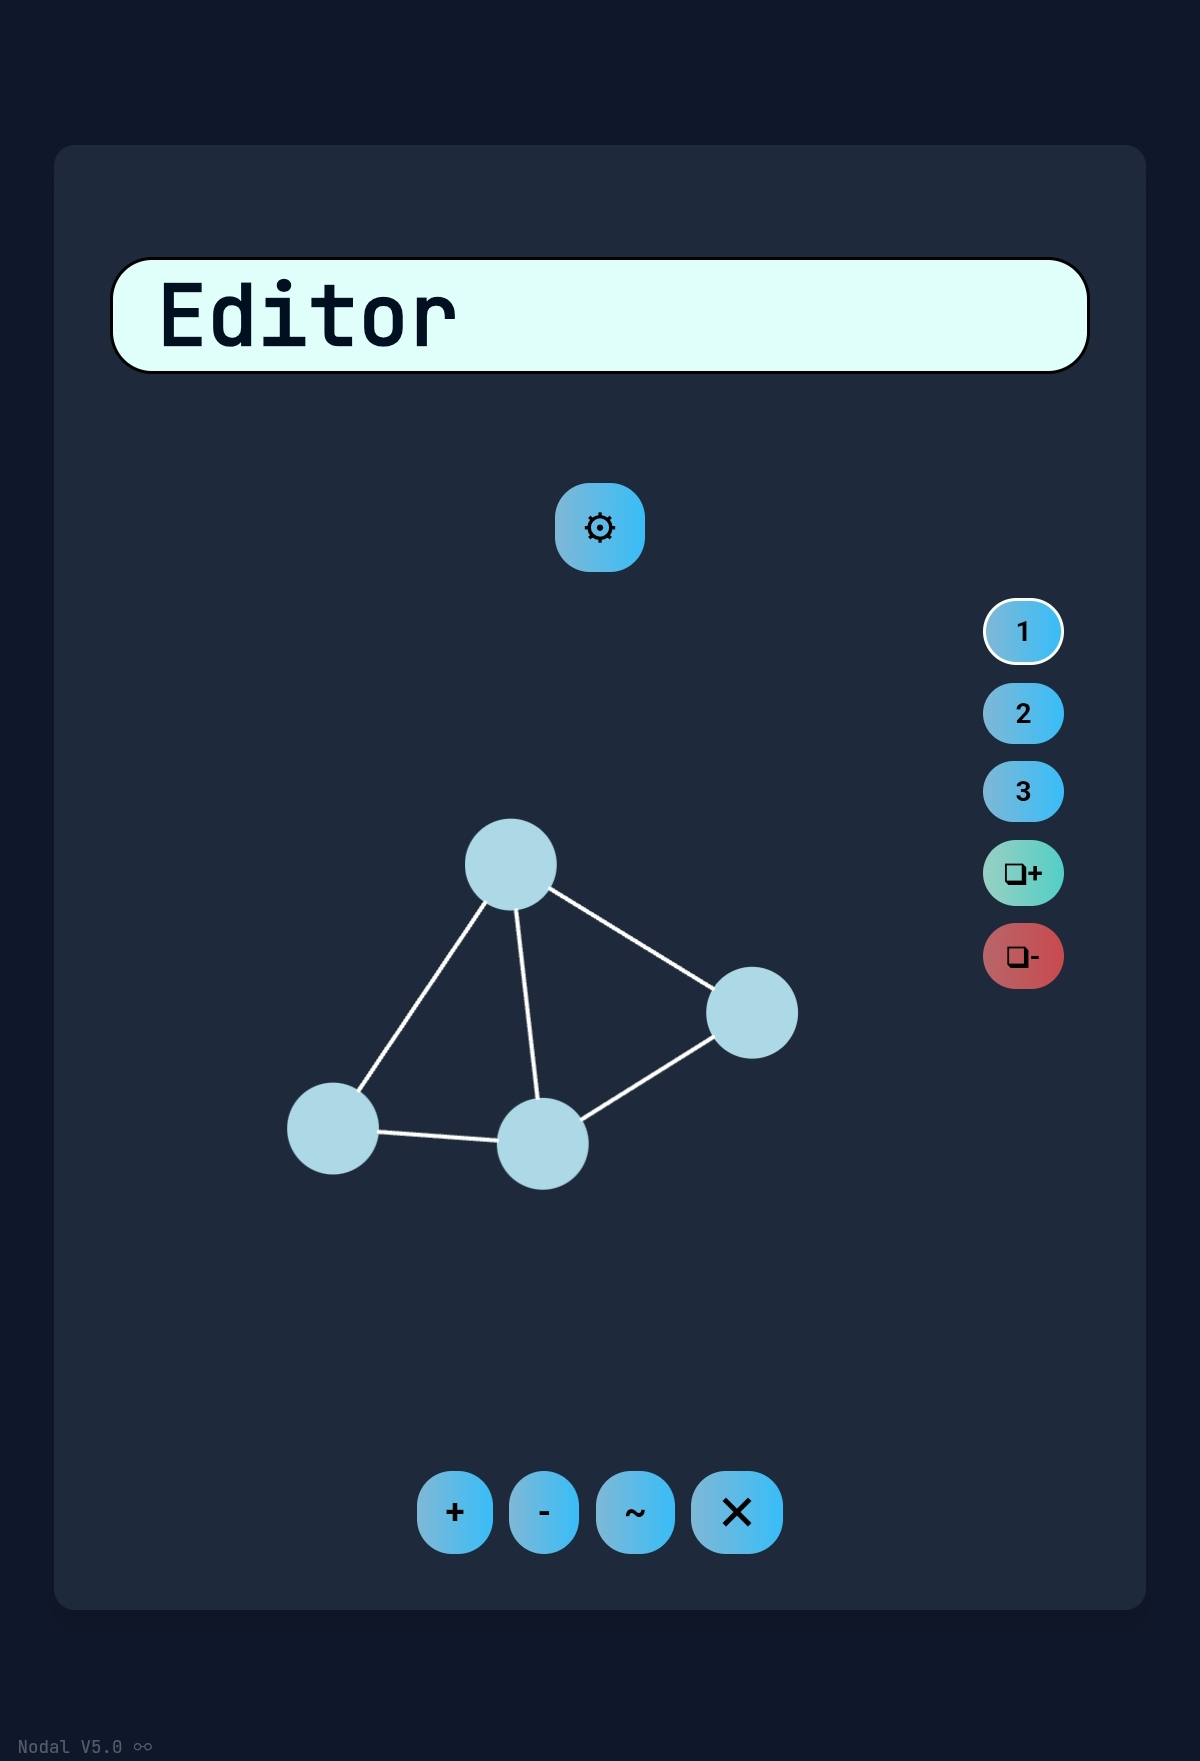
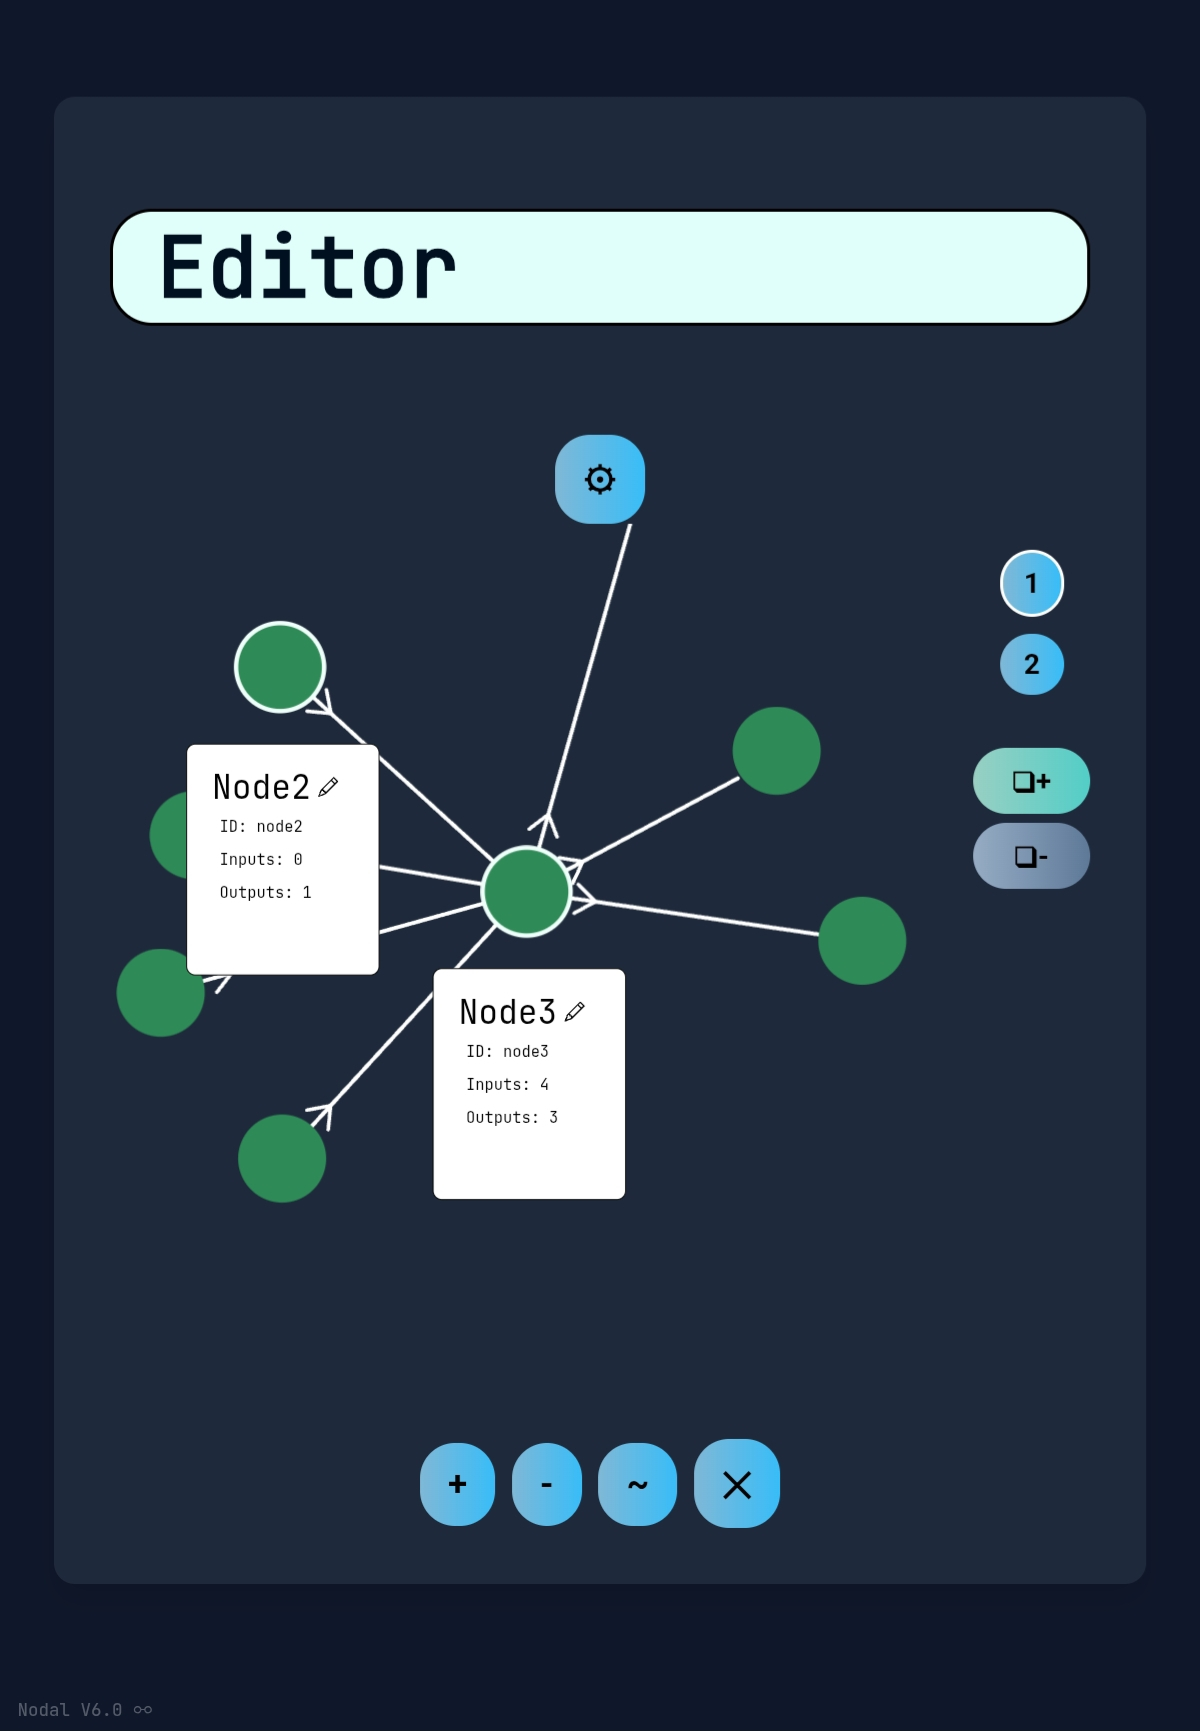
Nodal V6   release notes

diff --git a/Nodal/main/tscOut/main.js b/Nodal/main/tscOut/main.js
@@ -150,20 +150,41 @@ function drawPath(Start, End, isPathLoading = false) {
     const pHitbox = document.createElementNS("http://www.w3.org/2000/svg", "path");
     //PG = Path Group
     const PG = document.createElementNS("http://www.w3.org/2000/svg", "g");
-    PG.setAttribute("id", "path" + pathCount);
-    PG.classList.add("path");
     path.classList.add("pathV");
+    path.setAttribute("id", `pathV${pathCount}`);
     path.setAttribute("fill", "none");
     path.setAttribute("stroke", PathCol);
     path.setAttribute("stroke-width", "3.6");
     path.setAttribute("stroke-linecap", "round");
+    //path.setAttribute("marker-end", "url(#arrowhead)") for future update FUP
     path.setAttribute("data-start", NodeStart.id);
     path.setAttribute("data-end", NodeEnd.id);
-    PG.setAttribute("data-on-layer", String(userOnLayer));
     pHitbox.classList.add("pathHB");
     pHitbox.setAttribute("stroke", "transparent");
     pHitbox.setAttribute("stroke-width", "10");
     pHitbox.setAttribute("fill", "none");
+    const arrowDot = document.createElementNS("http://www.w3.org/2000/svg", "g");
+    const chevron = document.createElementNS("http://www.w3.org/2000/svg", "polyline");
+    chevron.setAttribute("points", "-8 -6, 0 0, -8 6");
+    chevron.setAttribute("fill", "none");
+    chevron.setAttribute("stroke", "white");
+    chevron.setAttribute("stroke-width", "1.5");
+    chevron.setAttribute("stroke-linecap", "round");
+    chevron.setAttribute("stroke-linejoin", "round");
+    chevron.setAttribute("transform", "scale(2.2)");
+    const animMotion = document.createElementNS("http://www.w3.org/2000/svg", "animateMotion");
+    animMotion.setAttribute("dur", "1s");
+    animMotion.setAttribute("repeatCount", "indefinite");
+    animMotion.setAttribute("rotate", "auto");
+    const mpath = document.createElementNS("http://www.w3.org/2000/svg", "mpath");
+    mpath.setAttribute("href", `#pathV${pathCount}`);
+    animMotion.appendChild(mpath);
+    arrowDot.appendChild(chevron);
+    arrowDot.appendChild(animMotion);
+    PG.setAttribute("id", "path" + pathCount);
+    PG.classList.add("path");
+    PG.setAttribute("data-on-layer", String(userOnLayer));
+    PG.appendChild(arrowDot);
     PG.appendChild(path);
     PG.appendChild(pHitbox);
     pathNetwork.appendChild(PG);
@@ -178,8 +199,8 @@ function drawPath(Start, End, isPathLoading = false) {
             draw: ""
         };
         state.paths.push(data);
-        pathCount++;
     }
+    pathCount++;
     JSONSave();
 }
 function updatePath(p, hitbox) {
@@ -296,6 +317,8 @@ function makeDraggable(node) {
     //Touch End
     //Mouse Start     
     node.addEventListener("mousemove", (e) => {
+        if (!drag)
+            return;
         if (pathMode || deleteMode)
             return;
         e.stopPropagation();
@@ -320,8 +343,8 @@ function Sdrag(ele, x, y) {
     if (ele && typeof ele.setAttribute === "function") {
         ele.setAttribute("cx", `${x}`);
         ele.setAttribute("cy", `${y}`);
-        const corInPop = infoPopupSection.querySelector(`#popup-${ele.parentElement?.id}`); //corresponding info popup
-        corInPop?.setAttribute("transform", `translate(${x + 50}, ${y})`);
+        const corInPop = infoPopupSection.querySelector(`#popup-${ele.parentElement?.id}`);
+        corInPop?.setAttribute("transform", `translate(${x - 95}, ${y + 60})`);
         resolveCollisions(ele);
         network.querySelectorAll(".path").forEach(pat => {
             updatePath(pat.children[0], pat.children[1]);
@@ -480,8 +503,8 @@ function showPopup(node) {
     const displayInputs = [...pathNetwork.querySelectorAll(".pathV")].filter(path => path.getAttribute("data-end") === node.id).length;
     //Find how many paths' have it as a start-node
     const displayOutputs = [...pathNetwork.querySelectorAll(".pathV")].filter(path => path.getAttribute("data-start") === node.id).length;
-    const SVGstructure = `<g class="infoPopup" id="popup-${node.id}" transform="translate(${parseInt(nodeData.x + 50)}, ${nodeData.y})">
-                <rect width="175" height="210" x="10" y="10" rx="20" ry="20" fill="white" stroke="#000000d5" stroke-width="1"/>
+    const SVGstructure = `<g class="infoPopup" id="popup-${node.id}" transform="translate(${nodeData.x - 95}, ${nodeData.y + 60})">
+                <rect width="175" height="210" x="10" y="10" rx="8" ry="8" fill="white" stroke="#000000d5" stroke-width="1"/>
                 <text x="78" y="60" font-size="30" text-anchor="middle" fill="black">${(node.id).replace("node", "Node")}</text>
                 <path d="M12.146.146a.5.5 0 0 1 .708 0l3 3a.5.5 0 0 1 0 .708l-10 10a.5.5 0 0 1-.168.11l-5 2a.5.5 0 0 1-.65-.65l2-5a.5.5 0 0 1 .11-.168zM11.207 2.5 13.5 4.793 14.793 3.5 12.5 1.207zm1.586 3L10.5 3.207 4 9.707V10h.5a.5.5 0 0 1 .5.5v.5h.5a.5.5 0 0 1 .5.5v.5h.293zm-9.761 5.175-.106.106-1.528 3.821 3.821-1.528.106-.106A.5.5 0 0 1 5 12.5V12h-.5a.5.5 0 0 1-.5-.5V11h-.5a.5.5 0 0 1-.468-.325" transform="translate(129.6, 40) scale(1.13)"/>
                 <text x="40" y="90" font-size="14" text-anchor="start" fill="black">ID: ${node.id}</text>
@@ -927,6 +950,7 @@ function JSONLoad(type) {
     if (type == "loadfile") {
         console.log("Loading localStorage global-state");
     }
+    infoPopupSection.innerHTML = "";
     nodeNetwork.innerHTML = "";
     pathNetwork.innerHTML = "";
     const onLayerNodes = state.nodes.filter((n) => parseInt(n.layer) == userOnLayer);

diff --git a/Nodal/main/main.ts b/Nodal/main/main.ts
@@ -189,20 +189,48 @@
         //PG = Path Group
         const PG = document.createElementNS("http://www.w3.org/2000/svg", "g");
 
-        PG.setAttribute("id", "path" + pathCount);
-        PG.classList.add("path");
         path.classList.add("pathV");
+        path.setAttribute("id", `pathV${pathCount}`);
         path.setAttribute("fill", "none");
         path.setAttribute("stroke", PathCol);
         path.setAttribute("stroke-width", "3.6");
         path.setAttribute("stroke-linecap", "round");
+        //path.setAttribute("marker-end", "url(#arrowhead)") for future update FUP
         path.setAttribute("data-start", NodeStart!.id);
         path.setAttribute("data-end", NodeEnd!.id);
-        PG.setAttribute("data-on-layer", String(userOnLayer));
+        
         pHitbox.classList.add("pathHB");
         pHitbox.setAttribute("stroke", "transparent");
         pHitbox.setAttribute("stroke-width", "10");
         pHitbox.setAttribute("fill", "none");
+        
+        const arrowDot = document.createElementNS("http://www.w3.org/2000/svg", "g");
+
+        const chevron = document.createElementNS("http://www.w3.org/2000/svg", "polyline");
+        chevron.setAttribute("points", "-8 -6, 0 0, -8 6");
+        chevron.setAttribute("fill", "none");
+        chevron.setAttribute("stroke", "white");
+        chevron.setAttribute("stroke-width", "1.5");
+        chevron.setAttribute("stroke-linecap", "round");
+        chevron.setAttribute("stroke-linejoin", "round");
+        chevron.setAttribute("transform", "scale(2.2)")
+
+        const animMotion = document.createElementNS("http://www.w3.org/2000/svg", "animateMotion");
+        animMotion.setAttribute("dur", "1s");
+        animMotion.setAttribute("repeatCount", "indefinite");
+        animMotion.setAttribute("rotate", "auto");
+
+        const mpath = document.createElementNS("http://www.w3.org/2000/svg", "mpath");
+        mpath.setAttribute("href", `#pathV${pathCount}`);
+
+        animMotion.appendChild(mpath);
+        arrowDot.appendChild(chevron);
+        arrowDot.appendChild(animMotion);
+        
+        PG.setAttribute("id", "path" + pathCount);
+        PG.classList.add("path");
+        PG.setAttribute("data-on-layer", String(userOnLayer));
+        PG.appendChild(arrowDot);
         PG.appendChild(path);
         PG.appendChild(pHitbox);
         pathNetwork.appendChild(PG);
@@ -220,8 +248,8 @@
             draw: ""
           }
           state.paths.push(data)
-          pathCount++;
         }
+        pathCount++;
         JSONSave();
       }
 
@@ -358,6 +386,7 @@
         //Touch End
         //Mouse Start     
         node.addEventListener("mousemove", (e: MouseEvent) => {
+          if (!drag) return;
           if (pathMode || deleteMode) return;
           e.stopPropagation();
 
@@ -385,8 +414,8 @@
           ele.setAttribute("cx", `${x}`);
           ele.setAttribute("cy", `${y}`);
           
-          const corInPop = infoPopupSection.querySelector(`#popup-${ele.parentElement?.id}`);//corresponding info popup
-          corInPop?.setAttribute("transform", `translate(${x + 50}, ${y})`);
+          const corInPop = infoPopupSection.querySelector(`#popup-${ele.parentElement?.id}`);
+          corInPop?.setAttribute("transform", `translate(${x - 95}, ${y + 60})`);
 
           resolveCollisions(ele);
           network.querySelectorAll(".path").forEach(pat => {
@@ -568,8 +597,8 @@
         const displayInputs = [...pathNetwork.querySelectorAll(".pathV")].filter(path => path.getAttribute("data-end") === node.id).length;
         //Find how many paths' have it as a start-node
         const displayOutputs = [...pathNetwork.querySelectorAll(".pathV")].filter(path => path.getAttribute("data-start") === node.id).length;
-        const SVGstructure = `<g class="infoPopup" id="popup-${node.id}" transform="translate(${parseInt(nodeData.x + 50)}, ${nodeData.y})">
-                <rect width="175" height="210" x="10" y="10" rx="20" ry="20" fill="white" stroke="#000000d5" stroke-width="1"/>
+        const SVGstructure = `<g class="infoPopup" id="popup-${node.id}" transform="translate(${nodeData.x - 95}, ${nodeData.y + 60})">
+                <rect width="175" height="210" x="10" y="10" rx="8" ry="8" fill="white" stroke="#000000d5" stroke-width="1"/>
                 <text x="78" y="60" font-size="30" text-anchor="middle" fill="black">${(node.id).replace("node", "Node")}</text>
                 <path d="M12.146.146a.5.5 0 0 1 .708 0l3 3a.5.5 0 0 1 0 .708l-10 10a.5.5 0 0 1-.168.11l-5 2a.5.5 0 0 1-.65-.65l2-5a.5.5 0 0 1 .11-.168zM11.207 2.5 13.5 4.793 14.793 3.5 12.5 1.207zm1.586 3L10.5 3.207 4 9.707V10h.5a.5.5 0 0 1 .5.5v.5h.5a.5.5 0 0 1 .5.5v.5h.293zm-9.761 5.175-.106.106-1.528 3.821 3.821-1.528.106-.106A.5.5 0 0 1 5 12.5V12h-.5a.5.5 0 0 1-.5-.5V11h-.5a.5.5 0 0 1-.468-.325" transform="translate(129.6, 40) scale(1.13)"/>
                 <text x="40" y="90" font-size="14" text-anchor="start" fill="black">ID: ${node.id}</text>
@@ -1057,6 +1086,7 @@
         if (type == "loadfile") {
           console.log("Loading localStorage global-state");
         }
+        infoPopupSection.innerHTML = "";
         nodeNetwork.innerHTML = "";
         pathNetwork.innerHTML = "";
         const onLayerNodes = state.nodes.filter((n: any) => parseInt(n.layer) == userOnLayer);

diff --git a/Nodal/main/main.html b/Nodal/main/main.html
@@ -40,6 +40,12 @@
         <svg id="mainSvg" viewBox="-400 -400 800 800">
           <g id="view" data-current-layer="1">
             <g id="network">
+         <!-- <defs>
+                <marker id="arrowhead" markerWidth="10" markerHeight="10" refX="7" refY="5" orient="auto">
+                  <polyline points="1 1, 7 5, 1 9" fill="none" stroke="white" stroke-width="1.5" stroke-linecap="round" stroke-linejoin="round"/>
+                </marker>
+              </defs>
+                for future updates  FUP -->
               <g id="paths">
                 
               </g>
